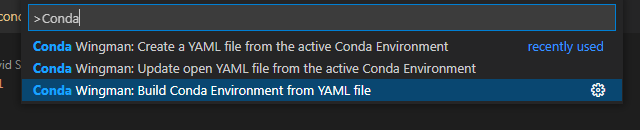
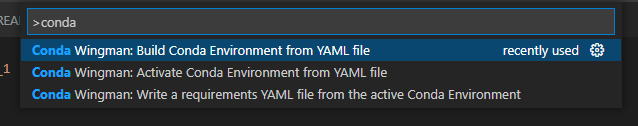
Writing change (#8)
* Adding default value of current file to create yaml

* Removing old update yml command

* Adding status bar button for writing

* Renaming command to write requirements

* updating message

* Updating README images

* Update README and version

diff --git a/extension.js b/extension.js
@@ -8,6 +8,9 @@ const vscode = require('vscode');
 const yaml = require('js-yaml');
 const fs   = require('fs');
 
+// Used to read and convert paths
+var path = require('path');
+
 // Terminal Functions copied from microsoft example terminal API
 // https://github.com/microsoft/vscode-extension-samples/blob/main/terminal-sample/src/extension.ts
 // Examples are given in TypeScript, so converted to JavaScript with an online converter https://extendsclass.com/typescript-to-javascript.html
@@ -156,6 +159,7 @@ function activate(context) {
 
 	var createEnvIcon 	= new customStatusBarItem('$(tools) Build Env from YAML', 'Build conda environment from open YAML file', 'conda-wingman.buildCondaYAML')
 	var activateEnvIcon = new customStatusBarItem('$(symbol-event) Activate Env from YAML', 'Activate conda environment referenced in open YAML file', 'conda-wingman.activateCondaYAML')
+	var writeEnvIcon = new customStatusBarItem('$(book) Write Requirements File', 'Write active conda environment to a YAML file', 'conda-wingman.writeRequirementsFile')
 
 	// Setup listener to see when active file is not YAML
 	var listener = function (event) {
@@ -165,6 +169,7 @@ function activate(context) {
 		if ( !activeFileIsYAML() ){
 			createEnvIcon.hide()
 			activateEnvIcon.hide()
+			writeEnvIcon.hide()
 		}
 
 	};
@@ -239,74 +244,45 @@ function activate(context) {
 		}
 
 	}
-);
-context.subscriptions.push(activateCondaYAMLFunct);
-
-	// Command: "Conda Wingman: Update open YAML file from the active Conda Environment"
-	// This command will update the open requirements.yaml with packages from the active environment.
-	let updateCondaYAMLFunct = vscode.commands.registerCommand('conda-wingman.updateCondaYAML',
-		function () {
-
-			var activeFilename = vscode.window.activeTextEditor.document.fileName
-
-			// Validate open file is YAML
-			if( activeFileIsYAML() ) {
-				var activeEditor = vscode.window.activeTextEditor;
-
-				var filename = activeEditor.document.fileName
-
-				console.log(`Filename is :${filename}`);
-
-				// Convert file path \\ characters to /
-				var filenameForwardSlash = filename.split('\\').join('/')
-				console.log(`Amended filename is :${filenameForwardSlash}`);
-
-				vscode.window.showInformationMessage(`Exporting active Conda environment to ${filenameForwardSlash} .`);
-				console.log(`Exporting active Conda environment to ${filenameForwardSlash} .`)
-
-				// Run the conda create environment command
-				var command = `conda env export > "${filenameForwardSlash}"`
-				sendCommandToTerminal(command)
-
-			}
-			else {
-				// split string by . and return last array element to get extension
-				var fileExt = activeFilename.split('.').pop();
-				vscode.window.showErrorMessage(`Cannot export a conda env to a ${fileExt} file. Only YAML files are supported.`);
-			}
-
-		}
 	);
-	context.subscriptions.push(updateCondaYAMLFunct);
+	context.subscriptions.push(activateCondaYAMLFunct);
 
 	/**
 	 * Shows an input box using window.showInputBox().
 	 * Higher level wrapper around vscode.window.showInputBox
 	 * Source: https://stackoverflow.com/questions/55854519/how-to-ask-user-for-username-or-other-data-with-vs-code-extension-api
 	 */
-	 async function createYAMLInputBox() {
-		const result = await vscode.window.showInputBox({
-			value: 'requirements.yml',
+	 async function createYAMLInputBox(defaultValue) {
+		const result = 
+		await vscode.window.showInputBox({
+			value: defaultValue,
 			placeHolder: 'Name of created conda environment YAML',
 			validateInput: text => {
-				// TODO: Figure out how this validation works and how I can use it.
-				// vscode.window.showInformationMessage(`Validating: ${text}`);
+				if (text.length == 0){
+					return 'You cannot leave this empty!'
+				}
+				var fileExt = text.split('.').pop().toLowerCase()
+
+				if (fileExt!='yaml' && fileExt!='yml'){
+					return(`Only YAML files are supported!`);
+				}
+
 			}
 		});
-		vscode.window.showInformationMessage(`Got: ${result}`);
-
 		console.log("Running asynchronous createYAMLInputBox function ");
-
-		//TODO: Maybe check the string isn't null before hand.
-		// 		Or we let conda handel the validation for us in the terminal?
-
-		vscode.window.showInformationMessage(`Creating YAML Env:\n'${result}' .`);
-		console.log(`Creating YAML Env:\n'${result}' .`)
-
-		// Run the conda create environment command
-		var command = `conda env export > "${result}"`
-		sendCommandToTerminal(command)
-
+		
+		console.log(`Got: ${result}`)
+		if (result == undefined){
+			vscode.window.showErrorMessage(`Cannot create requirements file if no name is given.`);
+		}
+		else {
+			vscode.window.showInformationMessage(`Creating requirements file Env:\n'${result}' .`);
+			console.log(`Creating requirements file Env:\n'${result}' .`)
+	
+			// Run the conda create environment command
+			var command = `conda env export > "${result}"`
+			sendCommandToTerminal(command)
+		}
 	}
 
 
@@ -314,21 +290,31 @@ context.subscriptions.push(activateCondaYAMLFunct);
 	// Command: "Conda Wingman: Create a YAML file from the active Conda Environment"
 	// This command will create a requirements yaml to with a name input from the user.
 	// TODO: Ask user for input and save as input.yaml.
-	let createCondaYAMLFunct = vscode.commands.registerCommand('conda-wingman.createCondaYAML',
+	let writeRequirementsFileFunct = vscode.commands.registerCommand('conda-wingman.writeRequirementsFile',
 		function () {
 
-			// Get response from user as to which env they want to delete
-			var response = createYAMLInputBox();
+			writeEnvIcon.displayLoading()
+			// Use current filename as default value if possible.
+			var filepath = vscode.window.activeTextEditor.document.fileName
+			var filename = path.parse(filepath).base;
+
+			if (filepath == 'undefined' || !activeFileIsYAML()){
+				filename = 'requirements.yml'
+			}
+
+			// Get response from user as to what to call their env.
+			var response = createYAMLInputBox(filename);
 			console.log('Response: ', response);
-
+			
 			console.log(
-				`While the createCondaYAMLFunct has finished running.
-		The deleteInputBox function is still running in the background.`
-			);
+				`While the writeRequirementsFileFunct has finished running.
+				The createYAMLInputBox function is still running in the background.`
+				);
 
+			writeEnvIcon.displayDefault()
 		}
 	);
-	context.subscriptions.push(createCondaYAMLFunct);
+	context.subscriptions.push(writeRequirementsFileFunct);
 
 }
 

diff --git a/README.md b/README.md
@@ -14,8 +14,30 @@ Conda Wingman aims to add QoL improvements that help programmers use environment
 ## Features
 Currently Conda Wingman features are limited, but with big plans : )
 
+The extension supports the following features at the click of a button / single command:
+
 ### Creating Environments 
-Currently the only feature of the extension is to easily allow users to create environments from a conda requirements.yaml file.
+Create a Conda environment from the open requirements file.
+Selecting this will run the command 
+```conda env create -f YOUR-REQUIREMENTS.YML```
+in the most recently used integrated terminal. If no terminals currently exist the extension will create a new one.
+
+VScode command pallet: ```>Conda Wingman: Build Conda Environment from YAML file```
+
+
+### Activating Environments
+If you've already build the environment, you can instead activate it with another command.
+Selecting this will run the command 
+```conda activate YOUR-ENVIRONMENT```
+
+VScode command pallet: ```>Conda Wingman: Activate Conda Environment from YAML file```
+
+### Writing Requirements Files
+
+This will output the contents of your active Conda environment to a file of your choice.
+Selecting this will run the command 
+```conda env export > YOUR_REQUIREMENTS_FILE```
+VScode command pallet: ```>Conda Wingman: Write a requirements YAML file from the active Conda Environment```
 
 e.g.
 ```
@@ -50,23 +72,30 @@ Selecting this will run the command
 ```conda env create -f YOUR-REQUIREMENTS.YML```
 in the most recently used integrated terminal. If no terminals currently exist the extension will create a new one.
 
-The same functionallity can also be accessed by running the command ```>Conda Wingman: Build Conda Environment from YAML file``` in VSCode command pallet:
+The same functionality can also be accessed by running the command ```>Conda Wingman: Build Conda Environment from YAML file``` in VSCode command pallet:
 
 ![Command Pallet](images/Pallet-Create-Screenshot.png)
 
 ## Release Notes
 
+### 0.2.0
+- New feature that allows users to activate environments straight from the requirements files by parsing the file.
+- New buttons for Activating Envs and Writing requirement files.
+- Icon Overhaul for Build Env status bar button.
+- Interface added when user writes a requirement file.
+
+
 ### 0.1.0
 
-Changing to [semantic versioning numbers](https://semver.org/).
+- Changing to [semantic versioning numbers](https://semver.org/).
 Added functionality to create conda environment YAML files from the command pallet. Small update to logo.
 
 ### 0.0.2
 
-Improving readme.
+- Improving readme.
 ### 0.0.1
 
-Initial release of extension to VSCode Extension Marketplace
+- Initial release of extension to VSCode Extension Marketplace
 
 
 ## Author
